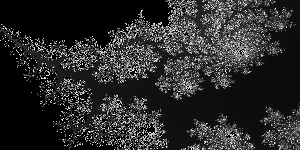
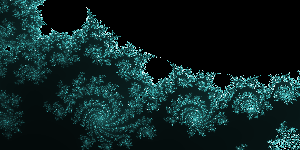
Add basic coloring

diff --git a/js/main.js b/js/main.js
@@ -17,13 +17,14 @@ function cardioid(im, re) {
 
 function mandelbrot(ci0, cj0) {
   if (cardioid(ci0, cj0)) {
-    return 'black';
+    return 0;
   }
 
   const MAX_ITERS = 1000;
   const THRESHOLD = 2;
 
   let included = true;
+  let maxIters = 0;
 
   let fi = 0;
   let fj = 0;
@@ -33,6 +34,11 @@ function mandelbrot(ci0, cj0) {
     if (Math.hypot(fi, fj) > THRESHOLD) {
       included = false;
       nIters = i;
+
+      if (nIters > maxIters) {
+        maxIters = nIters;
+      }
+
       break;
     }
 
@@ -43,10 +49,9 @@ function mandelbrot(ci0, cj0) {
   }
 
   if (included) {
-    return 'black';
+    return 0;
   } else {
-    const r = nIters / MAX_ITERS * 255;
-    return `rgb(${r}, ${r}, ${r})`;
+    return nIters;
   }
 }
 
@@ -79,7 +84,12 @@ function draw(x, y, zoom) {
   const CJ_START = -1 / zoom + y;
   const CJ_END = 1 / zoom + y;
 
+  const iters = [];
+  let maxIters = 0;
+
   for (let i = 0; i < canvas.width; ++i) {
+    iters[iters.length] = [];
+    
     for (let j = 0; j < canvas.height; ++j) {
       const it = i / canvas.width;
       const jt = j / canvas.height;
@@ -87,7 +97,27 @@ function draw(x, y, zoom) {
       const ci = lerp(CI_START, CI_END, it);
       const cj = lerp(CJ_START, CJ_END, jt);
 
-      const color = mandelbrot(ci, cj);
+      const nIters = mandelbrot(ci, cj);
+
+      if (nIters > maxIters) {
+        maxIters = nIters;
+      }
+
+      iters[iters.length - 1][j] = nIters;
+    }
+  }
+
+  for (let i = 0; i < canvas.width; ++i) {
+    for (let j = 0; j < canvas.height; ++j) {
+
+      let nIters = iters[i][j] / maxIters;
+
+      let color;
+      if (nIters == 0) {
+        color = 'black';
+      } else {
+        color = `hsl(${nIters * 359}, 50%, 50%)`;
+      }
 
       drawPixel(i, j, color);
     }

diff --git a/README.md b/README.md
@@ -11,6 +11,7 @@ You can play around with it [here](https://rsazizov.github.io/mandelbrot/index.h
 - [x] Escape Time Algorithm
 - [x] Zooming
 - [ ] Optimizations
-- [ ] Coloring
+- [ ] Histogram Coloring
+- [ ] Smoothg Coloring
 - [ ] Hardware Acceleration
 
